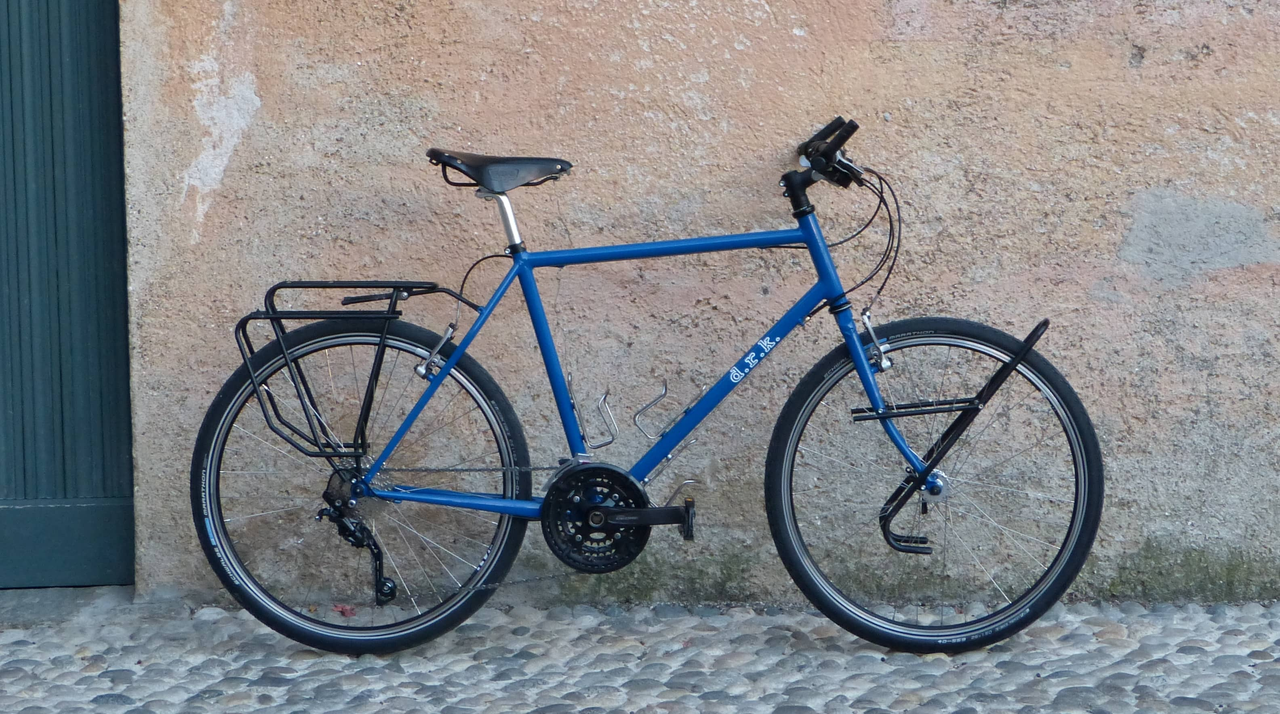
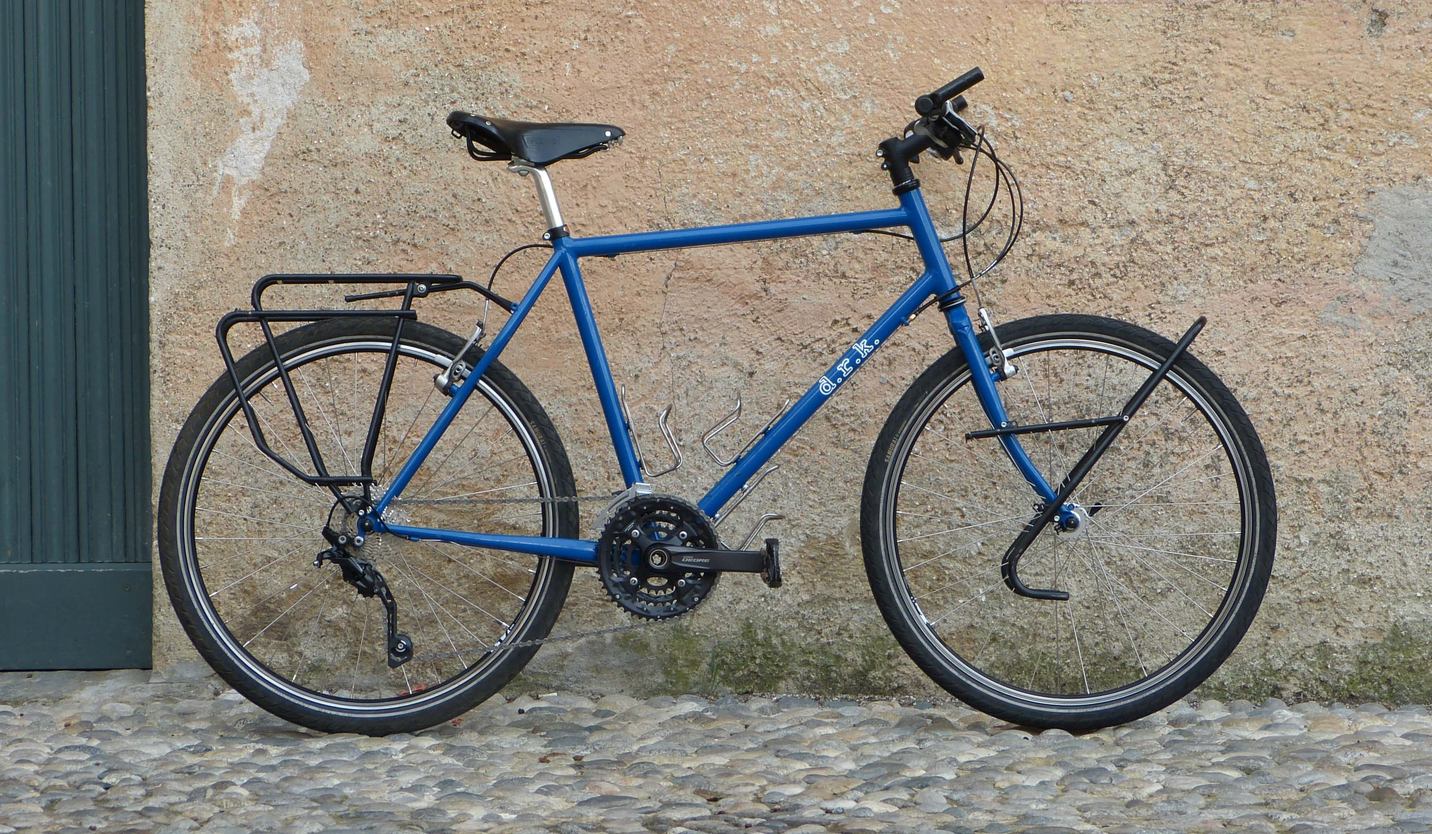
new bike pictures

diff --git a/index.html b/index.html
@@ -56,7 +56,7 @@ sitemap:
             <h1>Bicycles</h1> 
             <h2>Cargo bikes</h2>
             <h3>The cargo bike is a versitile workhorse; the one pictured below is the ultimate bicycle for touring around the world with your dog. Others are used to get the beers in.</h3>
-            <img class="img-responsive" src="img/cargo-small.jpg" alt="Img">
+            <img class="img-responsive" src="img/cargo1-small.jpg" alt="Img">
             <p>The design of the d.r.k. cargo bike retains as natural as a possible geometry to allow for a fun ride. The specific design of the cargo bay area permits a relatively light cargo bike, weighing in at a minimum of around 20kg. In contrast to some of the bigger manufactures, the dimensions of the rider compartment is fully customisable to fit its owner perfectly. The same can be said for the cargo bay, be it for a small dog or a weekly shop, the cargo bay area can be sized accordingly. The d.r.k. cargo bike can even be supplied with a removable roof to keep its contents safe and dry. </p> 
             <p>As with all d.r.k. cycles, the cargo bike can be made with components to your specification, or, of course, we can take care of those choices.</p>
             
